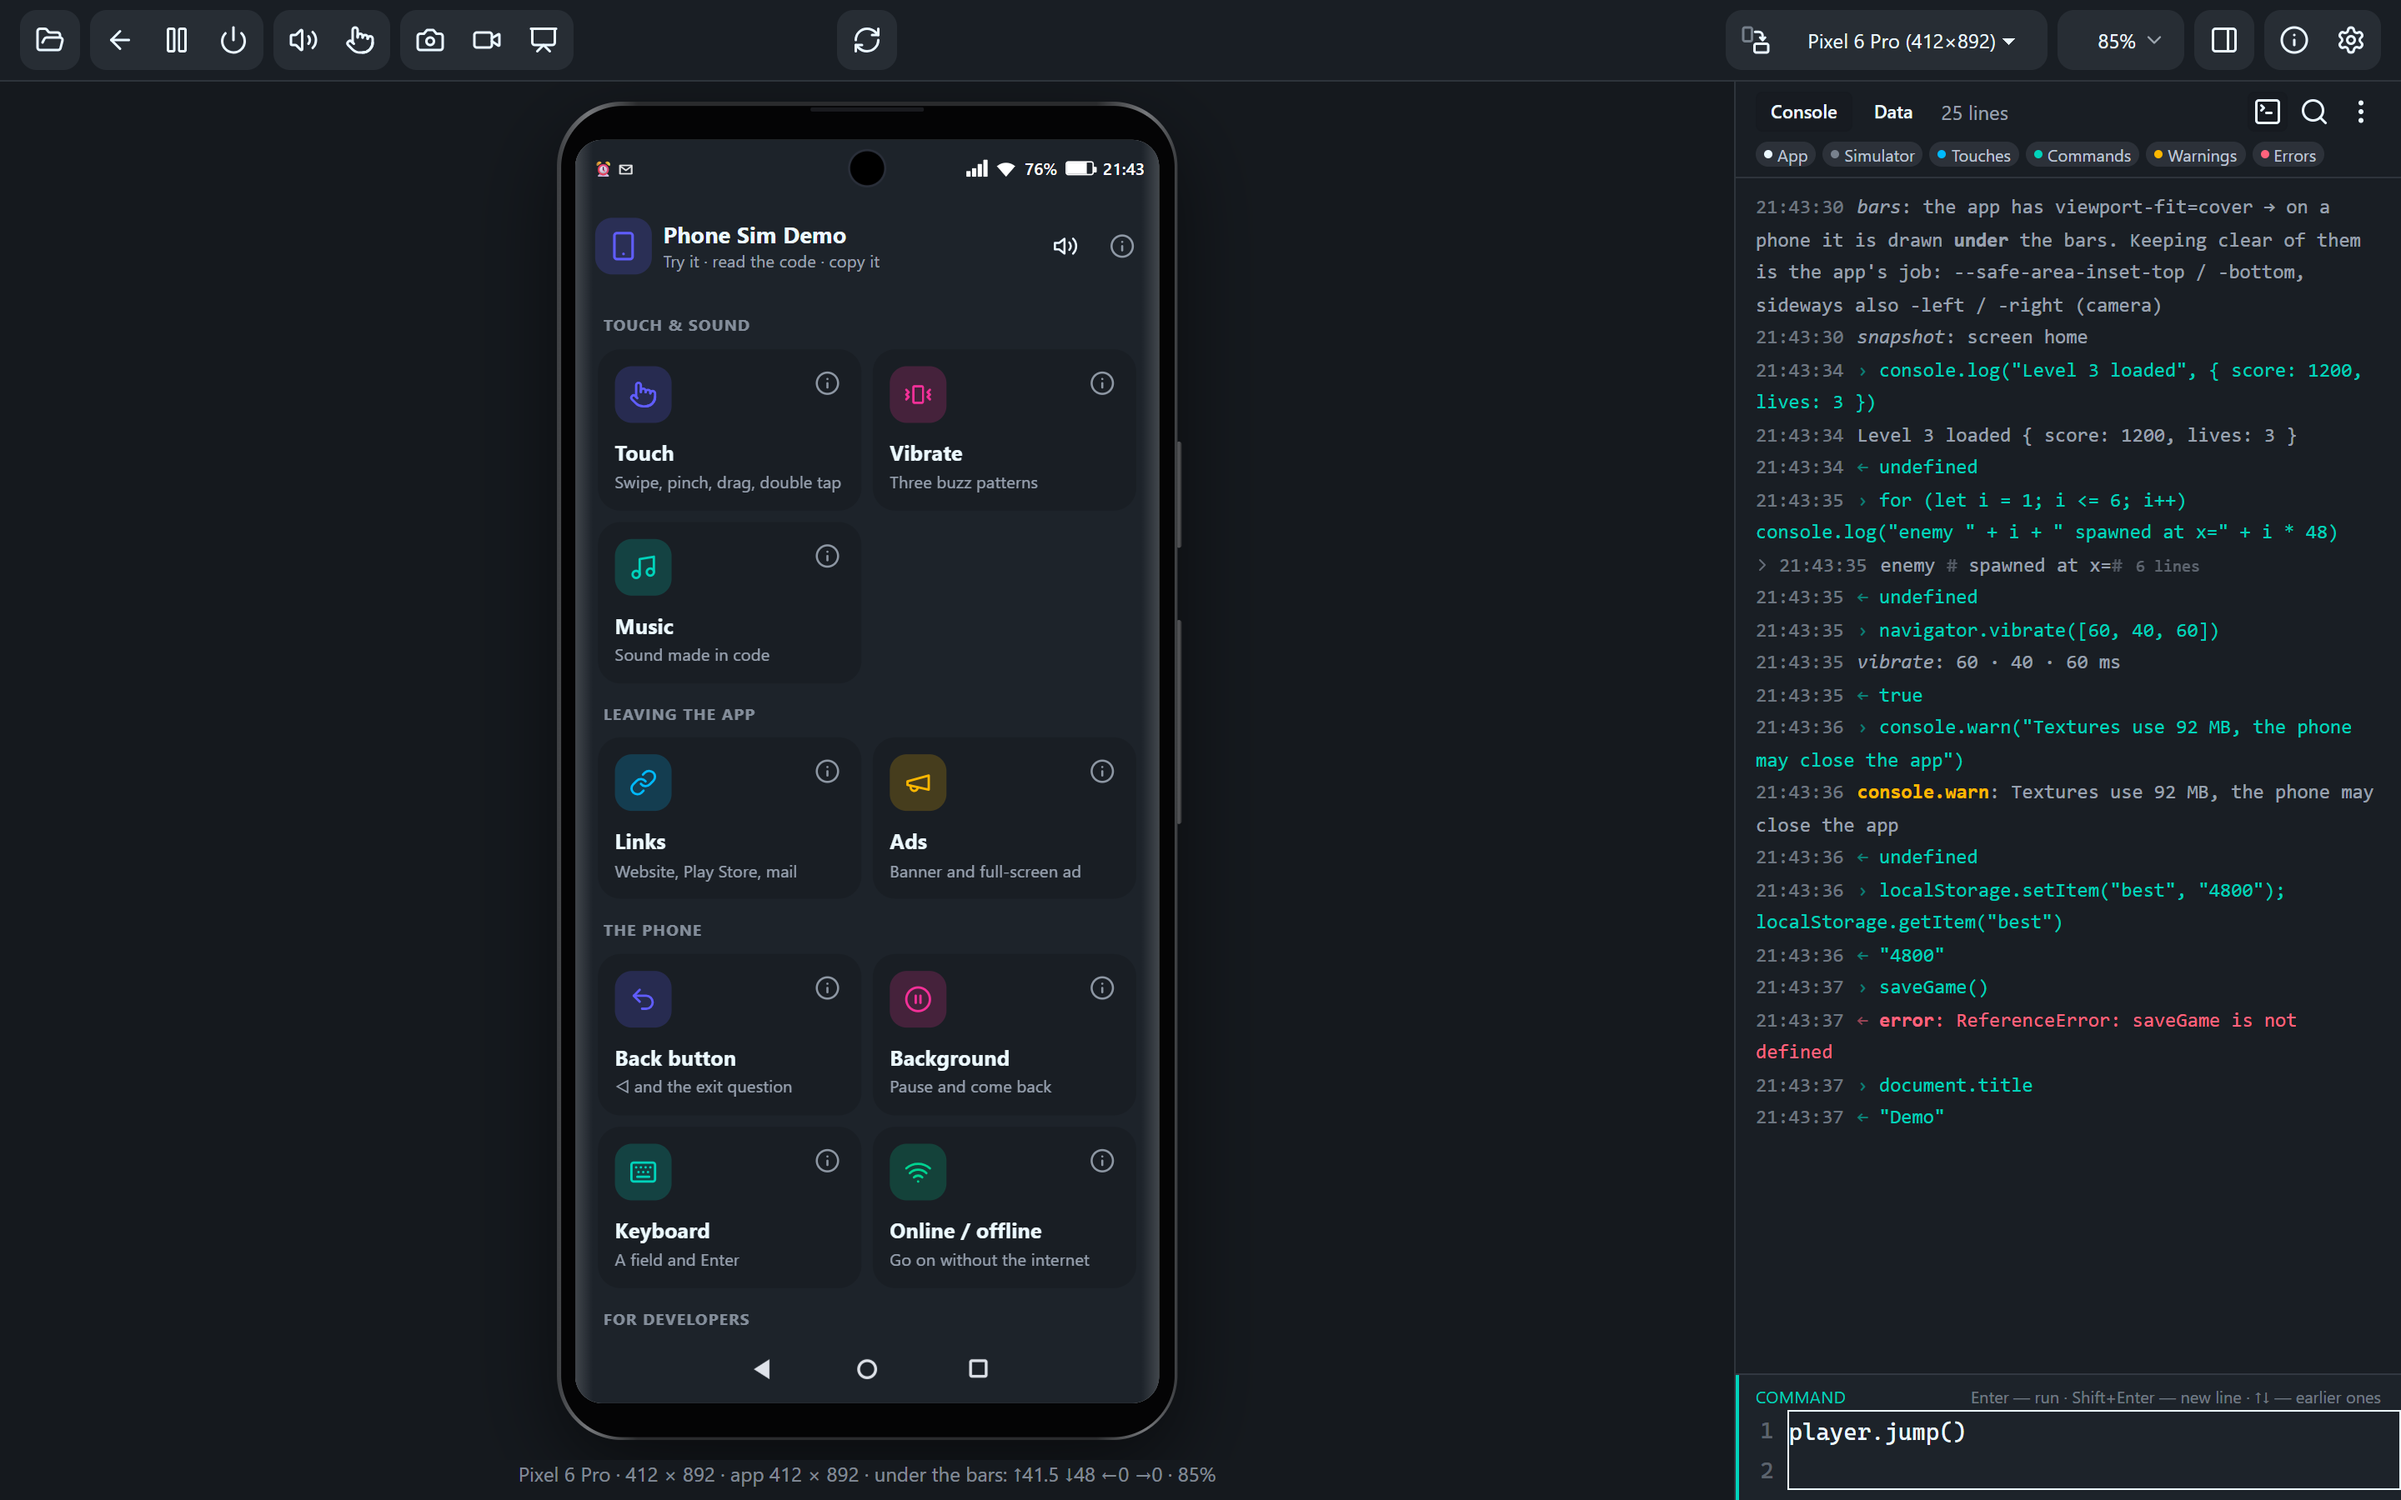
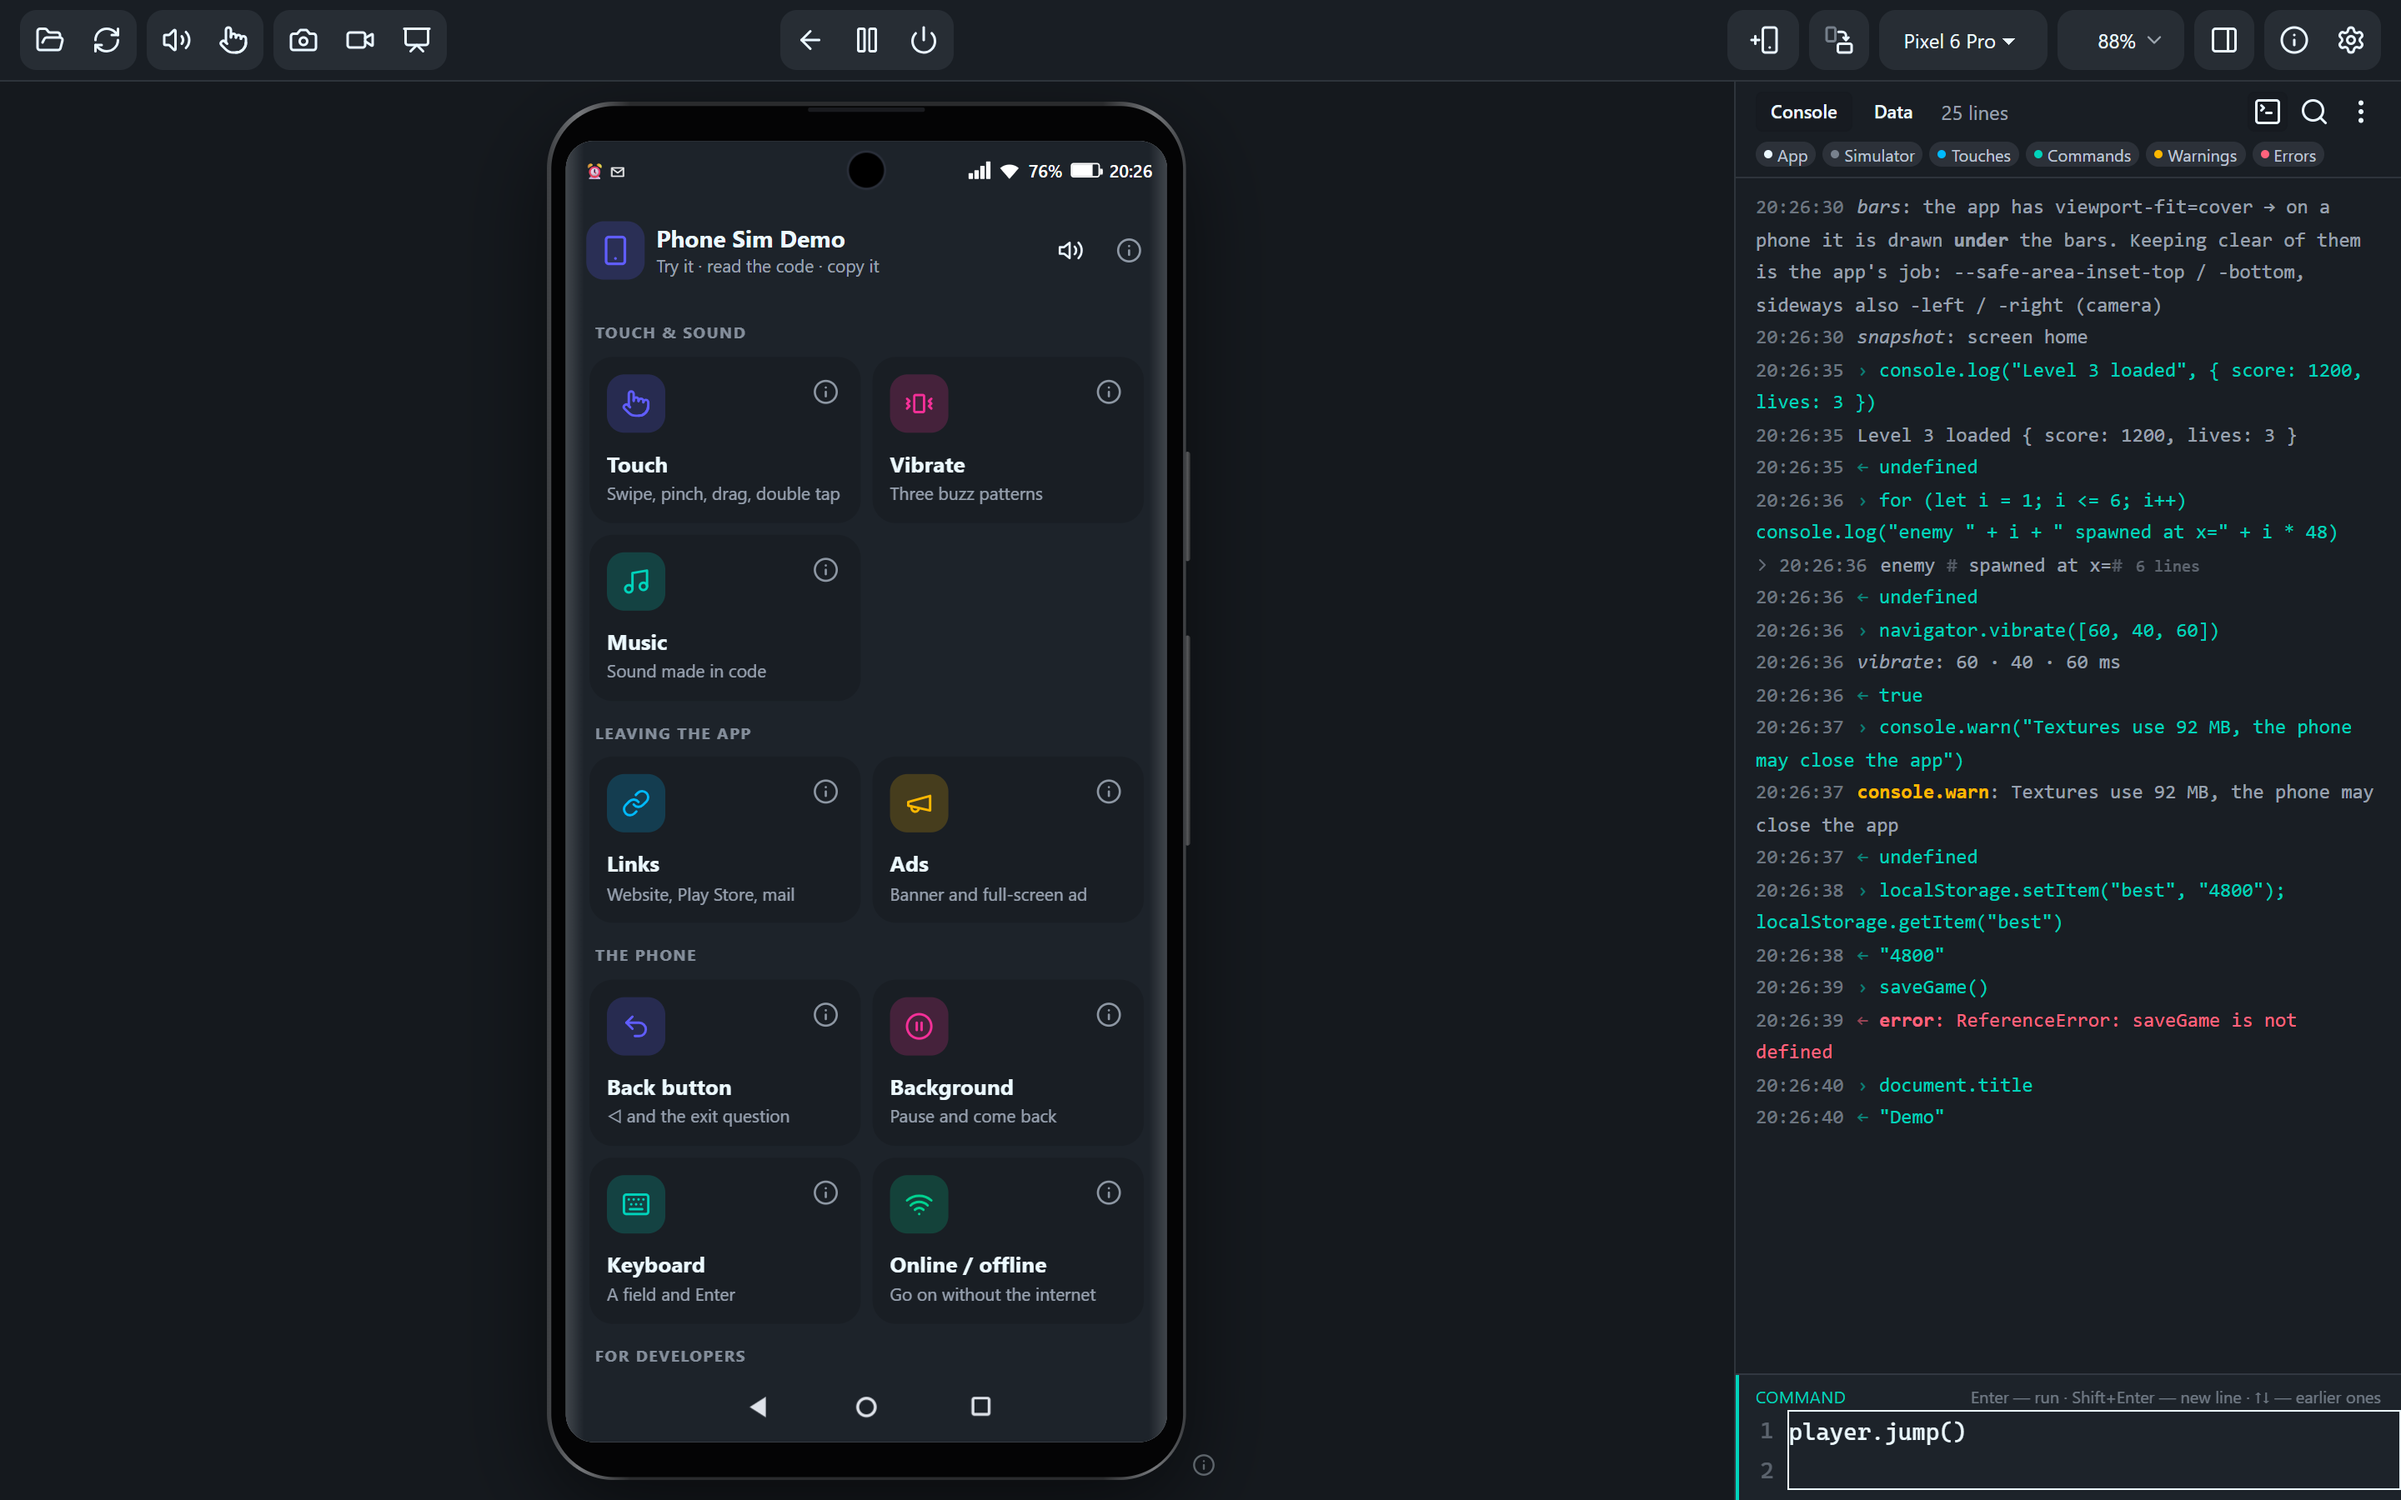
v1.12.1 — README: short intro on top, new window screenshot
Short plain-language intro (what it is, Try it link, 3 steps) before the full reference.
Window screenshot retaken with the new top bar; Files table lists theme-milioni.css.

diff --git a/README.md b/README.md
@@ -1,11 +1,24 @@
-# Phone simulator
+# Phone Sim
 
-Test an HTML mobile app (Capacitor, any Android WebView app) in a desktop browser, inside a phone frame that behaves like a phone.
-Plain HTML and JavaScript: no build step, no server, works offline straight from `file://`.
+See how your HTML mobile app behaves on a phone, without a phone.
 
-**Live demo:** https://kandelucky.github.io/phone-sim/
+Open it in Chrome or Edge, pick your app's folder, and the app runs inside a real phone frame:
+Back button, rotation, keyboard, safe areas, sound, vibration, ads. A console beside the phone shows what the app does.
+
+No install, no build step, no server. Works offline.
+
+**Try it:** https://kandelucky.github.io/phone-sim/
 
 ![The demo app in a Pixel 6 Pro frame, with the console beside it](docs/screenshots/phone-sim-window.png)
+
+1. Open the live demo.
+2. Folder icon (top left) → **Choose folder…** → your app's folder.
+3. Edit your code, press ↻ to see it.
+
+---
+
+The rest of this page is the full reference: for Capacitor and any Android WebView app,
+plain HTML and JavaScript that also runs straight from `file://`.
 
 ## What it simulates
 
@@ -248,6 +261,7 @@ A new feature = one file in `features/` + one `<script>` line in `index.html`: i
 | `manifest.webmanifest`, `icons/` | install as an app (Phone Sim), the `web+phonesim:` link, the icon |
 | `app.html` | an empty starter app |
 | `demo/` | the demo app |
+| `theme-milioni.css` | the theme of the second phone's window (not in the theme list) |
 | `demo-app.zip` | the demo app as a folder of its own (with its own `lib/` and `sim-bridge.js`), to try Choose folder |
 | `GUIDE-short.html` | a short guide for people who test an app, not build it |
 | `GUIDE.html`, `build-guide.js` | the full user guide as one page; both guides are built from `lang/en.js`: run `node build-guide.js` after changing them |
